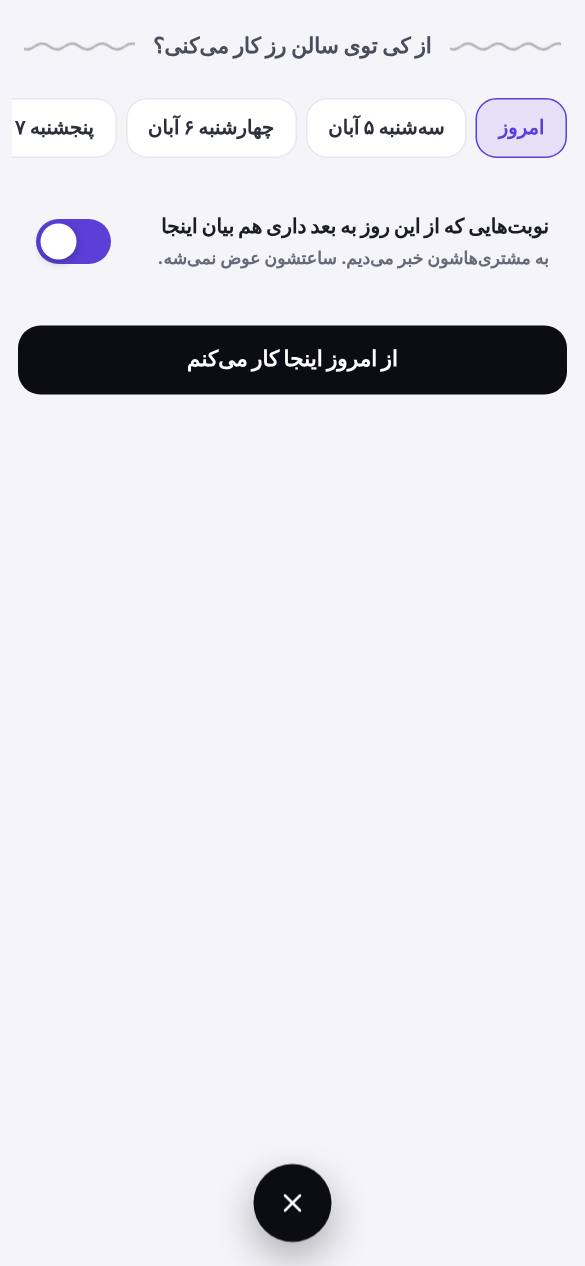
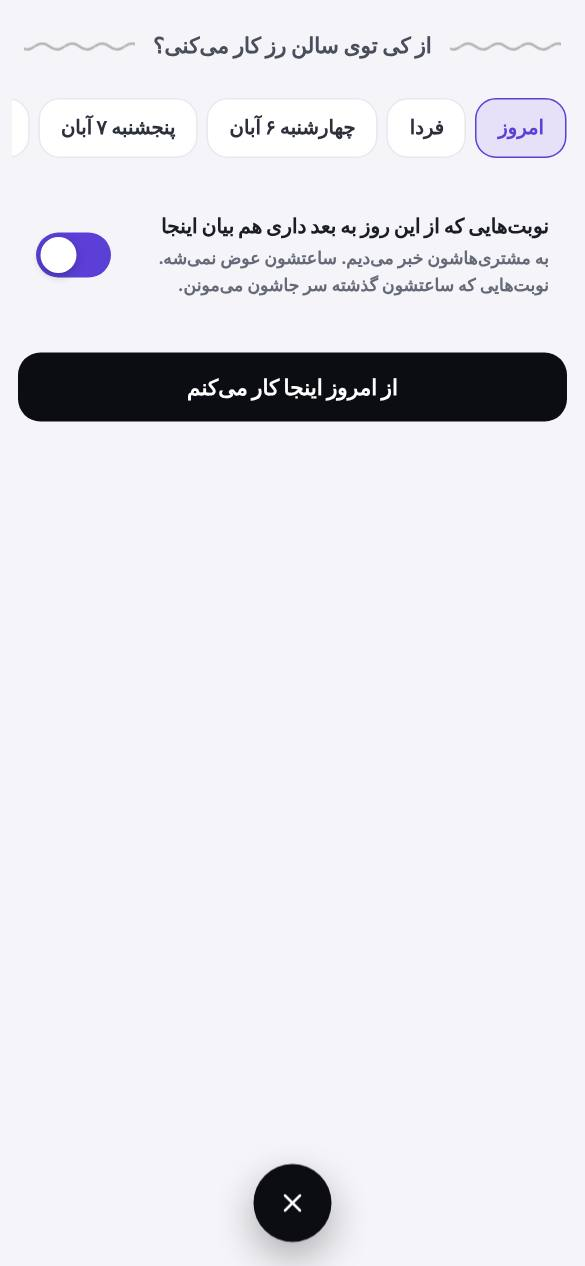
Keep bookings whose time has come where they were when an artist changes workplace
A booking of the switch day that had already happened was moved to the salon the
artist just joined. Only bookings still ahead move now; the switch sheets say so,
the salon is told how many bookings came in or left (nothing when none moved),
past busy hours are no longer shown to the salon, and migration 054 sends back the
bookings moved by mistake.

Claude-Session: https://claude.ai/code/session_01SsKn41fBgzSvvRVSpZ5zYX

diff --git a/app/lib/db/repos/artistPlace.js b/app/lib/db/repos/artistPlace.js
@@ -2,6 +2,7 @@ import { getDb, all, get, run, withTransaction } from "../connection.js";
 import { defaultHours } from "./salons/common.js";
 import { publicLocation } from "../../location.js";
 import { dateKeyAfter, salonTimeBlock, workplaceOn } from "../../../shared/lib/artistPlace.js";
+import { minutesToStart } from "../../../shared/lib/providerRules.js";
 
 /**
  * Where an artist's own clients are received (owner's decision of 2026-10-25, rules in shared/lib/artistPlace.js): one
@@ -15,6 +16,15 @@ const AWAY_STATES = ["غیرفعال", "مرخصی"];
 export const MAX_SWITCH_AHEAD_DAYS = 60;
 
 const LIVE_AT_SALON = ["تازه", "درخواست", "تایید", "تایید شده", "در انتظار مشتری"];
+
+/**
+ * A booking whose time has come (started or over, even if nobody marked it done) stays where it was held: it already
+ * happened there, so no switch of place moves it (owner's decision of 2026-10-26). An unreadable time counts as not yet.
+ */
+function notStartedYet(booking, now = new Date()) {
+  const minutes = minutesToStart(booking.booking_date, booking.time, now);
+  return minutes === null || minutes > 0;
+}
 
 /** The salon's weekly hours without creating any (a visit must not write); the default week when it never set them. */
 async function readSalonHours(salonUserId, db) {
@@ -138,7 +148,8 @@ export async function getArtistWorkplace(artistUserId, runner = null) {
 /**
  * The artist says "from `startsOn` on, my clients come to `salonUserId`" (null = my own place). Every later switch
  * already set is replaced. With `moveBookings`, their live bookings from that day on move there too, except those
- * outside the salon's hours (they stay put and are counted). → { ok, moved: [rows to tell], kept } or a refusal.
+ * outside the salon's hours (they stay put and are counted) and those whose time has already come (they stay put, uncounted).
+ * → { ok, moved: [rows to tell], kept } or a refusal.
  */
 export async function setArtistWorkplace(artistUserId, { salonUserId = null, startsOn, moveBookings = false }) {
   const todayKey = dateKeyAfter(0);
@@ -175,6 +186,7 @@ export async function setArtistWorkplace(artistUserId, { salonUserId = null, sta
     const moved = [];
     let kept = 0;
     for (const booking of live) {
+      if (!notStartedYet(booking)) continue;
       if (salon && salonTimeBlock(salon.hours, booking.booking_date, booking.time, booking.duration_minutes || 60)) { kept += 1; continue; }
       await run(db, "UPDATE artist_bookings SET place_salon_user_id = $1 WHERE id = $2", [target, booking.id]);
       moved.push(booking);
@@ -290,7 +302,8 @@ export async function listTeamClientTimes(salonUserId, fromKey, toKey, runner = 
       minutes: Number(row.duration_minutes) || 60,
       service: row.service || ""
     })),
-    busy: rows.filter((row) => !row.here).map((row) => ({
+    // Elsewhere and already started: that hour no longer matters to the salon.
+    busy: rows.filter((row) => !row.here && notStartedYet(row)).map((row) => ({
       id: row.id,
       artistName: row.artist_name || "آرتیست",
       date: row.booking_date,
@@ -302,18 +315,23 @@ export async function listTeamClientTimes(salonUserId, fromKey, toKey, runner = 
 
 /**
  * Takes direct bookings back from a salon: the salon's place on them is cleared, so they are held at the artist's own place
- * (nothing is cancelled). Only live bookings; `artistUserId` null = every artist of that salon. Returns what moved, with
+ * (nothing is cancelled). Only live bookings that have not started yet; `artistUserId` null = every artist of that salon. Returns what moved, with
  * the names to tell the clients.
  */
 export async function releasePlacedBookings(salonUserId, artistUserId = null, runner = null) {
   const db = runner || (await getDb());
-  return all(db, `
-    UPDATE artist_bookings b SET place_salon_user_id = NULL
-    FROM users au
+  const rows = await all(db, `
+    SELECT b.id, b.client_user_id, b.service, b.booking_date, b.time, au.name AS artist_name
+    FROM artist_bookings b JOIN users au ON au.id = b.artist_user_id
     WHERE b.place_salon_user_id = $1 AND b.source_salon_user_id IS NULL AND b.status = ANY($2)
-      AND ($3::int IS NULL OR b.artist_user_id = $3) AND au.id = b.artist_user_id
-    RETURNING b.id, b.client_user_id, b.service, b.booking_date, b.time, au.name AS artist_name
+      AND ($3::int IS NULL OR b.artist_user_id = $3)
   `, [salonUserId, LIVE_AT_SALON, artistUserId]);
+  // One whose time has come already happened at the salon: it stays there, and nobody is told it moved.
+  const moved = rows.filter((row) => notStartedYet(row));
+  if (moved.length) {
+    await run(db, "UPDATE artist_bookings SET place_salon_user_id = NULL WHERE id = ANY($1) AND place_salon_user_id = $2", [moved.map((row) => row.id), salonUserId]);
+  }
+  return moved;
 }
 
 /**
@@ -327,7 +345,7 @@ export async function moveBookingPlace(artistUserId, bookingId, salonUserId, run
     FROM artist_bookings b WHERE b.id = $1 AND b.artist_user_id = $2 AND b.source_salon_user_id IS NULL
   `, [bookingId, artistUserId]);
   if (!booking) return { ok: false, status: 404, error: "این نوبت رو پیدا نکردیم." };
-  if (!LIVE_AT_SALON.includes(booking.status)) return { ok: false, status: 409, error: "این نوبت تموم شده؛ جاش رو نمیشه عوض کرد." };
+  if (!LIVE_AT_SALON.includes(booking.status) || !notStartedYet(booking)) return { ok: false, status: 409, error: "وقت این نوبت رسیده؛ جاش رو نمیشه عوض کرد." };
   const target = Number(salonUserId || 0) || null;
   if (target && !(await movablePlaces(artistUserId, db)).some((team) => Number(team.salon_user_id) === target)) {
     return { ok: false, status: 409, error: "این سالن فعلاً مشتریهای خودت رو قبول نمیکنه.", code: "SALON_BLOCKED" };

diff --git a/tests/integration/artistPlace.test.js b/tests/integration/artistPlace.test.js
@@ -1,4 +1,5 @@
-import { describe, it, expect } from "vitest";
+import { describe, it, expect, afterAll } from "vitest";
+import pg from "pg";
 import { createClient, joinSalonAsArtist, registerUser } from "./helpers.js";
 import { formatPersianDateKey, getPersianWeekday } from "../../app/shared/lib/persianCalendar.js";
 import { dateKeyAfter } from "../../app/shared/lib/artistPlace.js";
@@ -6,6 +7,10 @@ import { dateKeyAfter } from "../../app/shared/lib/artistPlace.js";
 // Owner's decision of 2026-10-25: an artist's own clients go to one place at a time, the artist's «محل کار» (a salon whose
 // team they are on, or their own place), set "from this day on". A client sees where before booking and is only offered
 // hours both the artist and that salon are open. These tests drive the real server.
+
+const db = new pg.Client({ connectionString: process.env.TEST_POSTGRES_URL });
+const connected = db.connect();
+afterAll(async () => { await connected; await db.end(); });
 
 const norm = (value) => String(value || "").replace(/[\s]/g, "");
 
@@ -188,6 +193,31 @@ describe("where an artist's clients are received: one workplace at a time", () =
     const refused = await ctx.artistClient.put(`/api/artist-bookings/${early.payload.data.booking.id}/place`, { salonUserId: two.salon.user.id });
     expect(refused.status).toBe(409);
     expect(refused.payload.code).toBe("SALON_CLOSED");
+  });
+
+  it("a booking whose time has come stays where it was: joining a salon today moves only the ones still ahead", async () => {
+    const ctx = await setup({ team: false });
+    const { client } = await newClient();
+    const done = await book(ctx, client, dayOn(SATURDAY), "11:00");
+    const ahead = await book(ctx, client, dayOn(SATURDAY), "14:00");
+    expect([done.ok, ahead.ok]).toEqual([true, true]);
+    // The first one is turned into a visit of this morning that already happened (nobody marked it done yet).
+    await connected;
+    await db.query("UPDATE artist_bookings SET booking_date = $2, time = '00:00', status = 'تایید' WHERE id = $1", [done.payload.data.booking.id, today()]);
+    expect((await joinSalonAsArtist(ctx.artistClient, ctx.salonClient, ctx.salon.user.id)).ok).toBe(true);
+    const joined = await putPlace(ctx, ctx.salon.user.id, today(), true);
+    expect(joined.payload.data).toMatchObject({ moved: 1, kept: 0 });
+    expect((await rowOf(ctx, done.payload.data.booking.id)).placeSalon).toBeNull();
+    expect((await rowOf(ctx, ahead.payload.data.booking.id)).placeSalon.id).toBe(ctx.salon.user.id);
+    // Nor can it be moved by hand, and the salon is not shown its hour as busy any more.
+    const refused = await ctx.artistClient.put(`/api/artist-bookings/${done.payload.data.booking.id}/place`, { salonUserId: ctx.salon.user.id });
+    expect(refused.status).toBe(409);
+    const { visits, busy } = (await ctx.salonClient.get("/api/salon-staff/direct")).payload.data;
+    expect(visits.map((row) => row.id)).toEqual([ahead.payload.data.booking.id]);
+    expect(busy).toEqual([]);
+    // Nothing ahead to move: a switch moves nothing.
+    expect((await putPlace(ctx, null, today(), true)).payload.data).toMatchObject({ moved: 1 });
+    expect((await putPlace(ctx, ctx.salon.user.id, dayOn(SATURDAY, 1), true)).payload.data).toMatchObject({ moved: 0, kept: 0 });
   });
 
   it("back to the artist's own place: bookings come back with them when asked", async () => {

diff --git a/app/api/artist/place/route.js b/app/api/artist/place/route.js
@@ -3,6 +3,7 @@ import { getArtistWorkplace, setArtistWorkplace } from "../../../lib/db/repos/ar
 import { noticeClientPlaceChanged } from "../../../lib/providerNotices.js";
 import { notifyConnection } from "../../../lib/connectionNotify.js";
 import { formatRelativeBookingDayLabel } from "../../../shared/lib/persianCalendar.js";
+import { toPersianDigits } from "../../../shared/lib/digits.js";
 
 export const runtime = "nodejs";
 
@@ -35,11 +36,32 @@ async function _PUT(request) {
   // The salon hears when a member starts bringing their own clients there (not when a switch is only taken back).
   const salonId = Number(body.salonId || 0);
   const already = salonId && (before.savedCurrent === salonId || before.next?.salonId === salonId);
+  // Bookings already made are mentioned only when some really moved there (none when all were over or none existed).
+  const comingIn = salonId ? result.moved.length : 0;
   if (salonId && !already && (after.savedCurrent === salonId || after.next?.salonId === salonId)) {
     const day = formatRelativeBookingDayLabel(body.startsOn);
     notifyConnection(salonId, {
       title: "یه آرتیست مشتریهاش رو میاره سالنت",
-      body: `${auth.user.name || "یه آرتیست"} ${day === "امروز" ? "از امروز" : `از ${day}`} مشتریهای خودش رو توی سالنت میبینه. نوبتهاشون توی برنامهٔ روزت بنفش دیده میشن.`,
+      body: `${auth.user.name || "یه آرتیست"} ${day === "امروز" ? "از امروز" : `از ${day}`} مشتریهای خودش رو توی سالنت میبینه.${comingIn ? ` ${toPersianDigits(comingIn)} نوبتی که از قبل داشت هم اومد سالنت.` : ""} نوبتهاشون توی برنامهٔ روزت بنفش دیده میشن.`,
+      url: "/"
+    });
+  } else if (comingIn) {
+    notifyConnection(salonId, {
+      title: "نوبتهای یه آرتیست اومد سالنت",
+      body: `${toPersianDigits(comingIn)} نوبت ${auth.user.name || "یه آرتیست"} اومد سالنت. توی برنامهٔ روزت بنفش دیده میشن.`,
+      url: "/"
+    });
+  }
+  // A salon whose bookings of this artist really left hears how many (nothing when none moved).
+  const leaving = new Map();
+  for (const booking of result.moved) {
+    const from = Number(booking.place_salon_user_id || 0);
+    if (from && from !== salonId) leaving.set(from, (leaving.get(from) || 0) + 1);
+  }
+  for (const [fromSalonId, count] of leaving) {
+    notifyConnection(fromSalonId, {
+      title: "نوبتهای یه آرتیست از سالنت رفت",
+      body: `${toPersianDigits(count)} نوبت ${auth.user.name || "یه آرتیست"} دیگه توی سالنت نیست و جای دیگه برگزار میشه. ساعتش توی برنامهٔ روزت فقط شلوغ دیده میشه.`,
       url: "/"
     });
   }

diff --git a/app/features/artist/ArtistCollabBoard.jsx b/app/features/artist/ArtistCollabBoard.jsx
@@ -154,7 +154,7 @@ function SwitchSheet({ target, ask, busy, onSave, onClose }) {
   if (ask) {
     return (
       <ProfileSheet open kicker={target.name} title={`مشتریهایی که خودشون ازت نوبت میگیرن هم بیان ${target.name}؟`} panelClassName="clwSheet" onClose={onClose}>
-        <p className="clwSheetText">اگه آره، آدرس {target.name} روی صفحهت نوشته میشه و نوبتهات از امروز اونجاست. نوبتها به اسم خودت میمونن و مشتریها هم مال خودتن. هر وقت خواستی از همین تب عوضش کن.</p>
+        <p className="clwSheetText">اگه آره، آدرس {target.name} روی صفحهت نوشته میشه و نوبتهات از امروز اونجاست. نوبتها به اسم خودت میمونن و مشتریها هم مال خودتن. نوبتهایی که ساعتشون گذشته سر جاشون میمونن. هر وقت خواستی از همین تب عوضش کن.</p>
         <div className="clwSheetActions">
           <button type="button" className="clwBtn is-ghost" disabled={busy} onClick={onClose}>نه، بیان جای خودم</button>
           <button type="button" className="clwBtn is-primary" disabled={busy} onClick={() => onSave({ startsOn: days[0], moveBookings: true })}>آره، بیان اینجا</button>
@@ -181,7 +181,7 @@ function SwitchSheet({ target, ask, busy, onSave, onClose }) {
       <label className="clwMove">
         <span>
           <b>نوبتهایی که از این روز به بعد داری هم بیان {toOwn ? "جای خودت" : "اینجا"}</b>
-          <small>به مشتریهاشون خبر میدیم. ساعتشون عوض نمیشه.</small>
+          <small>به مشتریهاشون خبر میدیم. ساعتشون عوض نمیشه. نوبتهایی که ساعتشون گذشته سر جاشون میمونن.</small>
         </span>
         <button type="button" className="plSwitch" role="switch" aria-checked={move} aria-label="نوبتهای قبلی هم جابهجا بشن" onClick={() => setMove((value) => !value)} />
       </label>

diff --git a/app/features/schedule/ScheduleBookingMenuModal.jsx b/app/features/schedule/ScheduleBookingMenuModal.jsx
@@ -440,7 +440,7 @@ export function ScheduleBookingMenuModal({
               ) : null}
             </div>
 
-            {!isSalonOwner && !readOnly && !sourceSalon.name && booking.id != null ? <ArtistBookingPlace booking={booking} /> : null}
+            {!isSalonOwner && !readOnly && !started && !sourceSalon.name && booking.id != null ? <ArtistBookingPlace booking={booking} /> : null}
 
             {canManage && staffState.ready ? (
               <AutoAssignCard

diff --git a/docs/DECISIONS.md b/docs/DECISIONS.md
@@ -79,3 +79,4 @@ One line each, dated. Claude reads this before asking questions.
 - 2026-10-25: Signing up with a number that already has an account opens the login with the number filled in and the line «این شماره حساب داره؛ با رمزت وارد شو.», instead of an error to read.
 - 2026-10-25: The app keeps saying plainly whether a number has an account (at login and sign-up); the per-number and per-address limits on tries and SMS stay what stops anyone from testing numbers in bulk.
 - 2026-10-25: Sign-up always needs the SMS code whenever SMS works (owner: otherwise anyone can sign up with a number that isn't theirs); the separate switch FRFRO_OTP_REQUIRED=1 is gone, only test setups turn it off with FRFRO_OTP_REQUIRED=0. Accounts made earlier without a code keep working, but bookings a salon made under that number are not tied to them until they prove the number with a code.
+- 2026-10-26: A booking whose time has come (started or over, even if nobody marked it done) never moves when the artist switches workplace, joins a salon or leaves one: it stays where it was held. Only bookings still ahead move, and the sheets say «نوبتهایی که ساعتشون گذشته سر جاشون میمونن.» A booking already under way stays put too. The ones moved by mistake before this went back to the artist (migration 054). The salon no longer sees a member's past busy hours, only those still ahead. Clients and salons are told only when a booking really moved (the salon gets the count; nothing is sent when nothing moved). Owner approved all recommendations.
